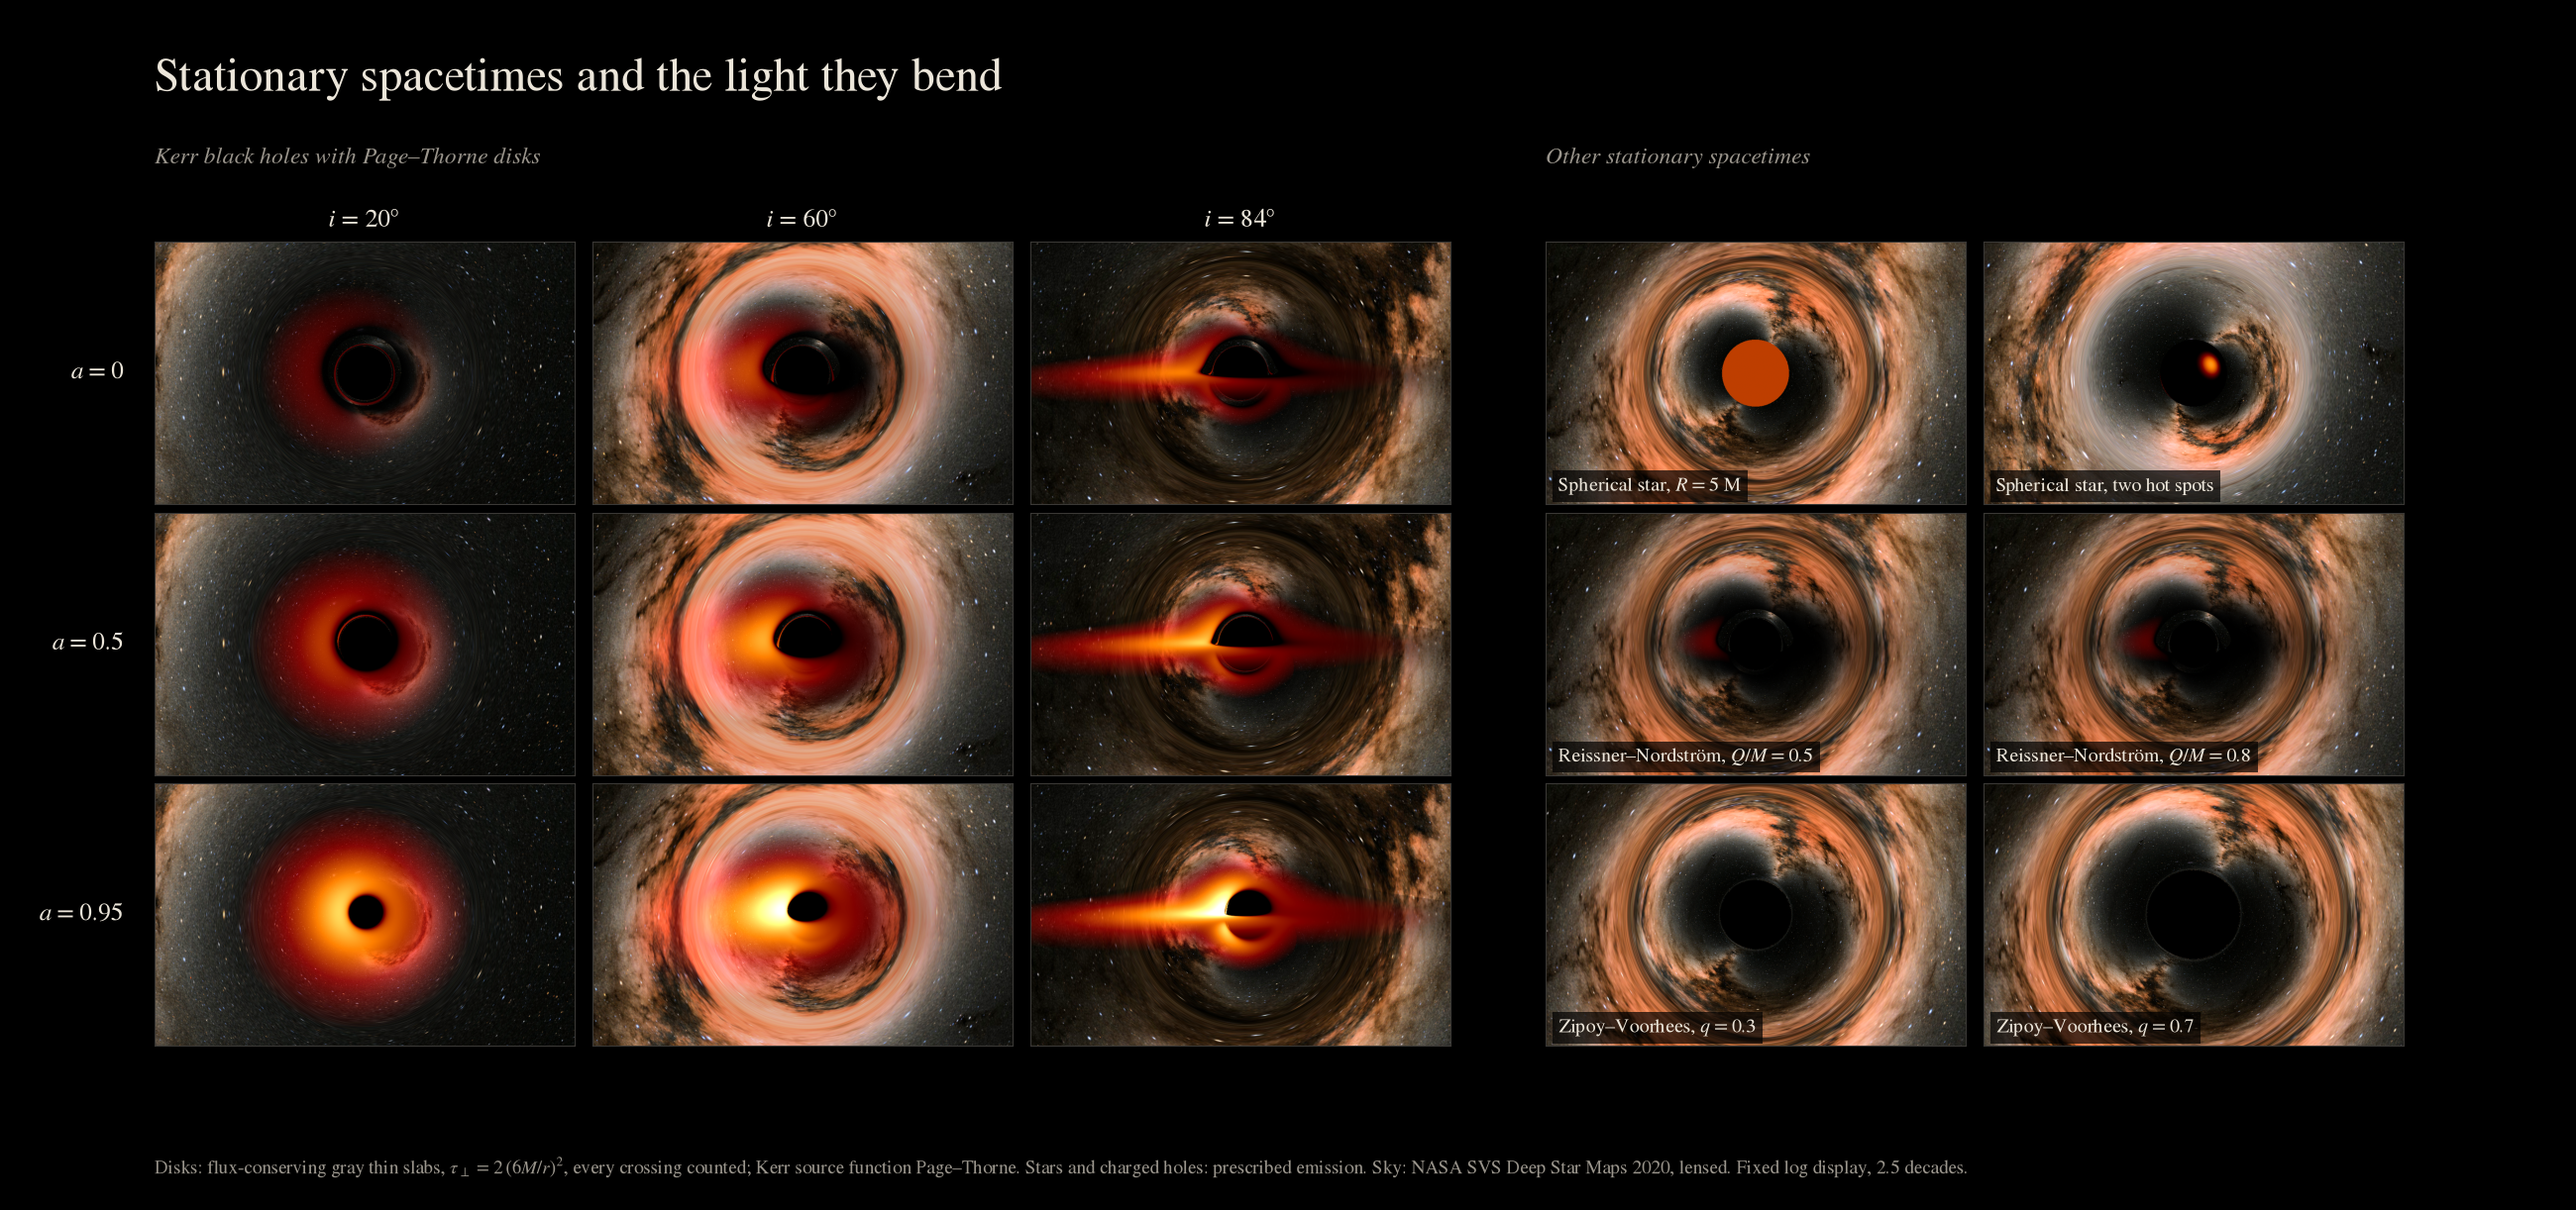
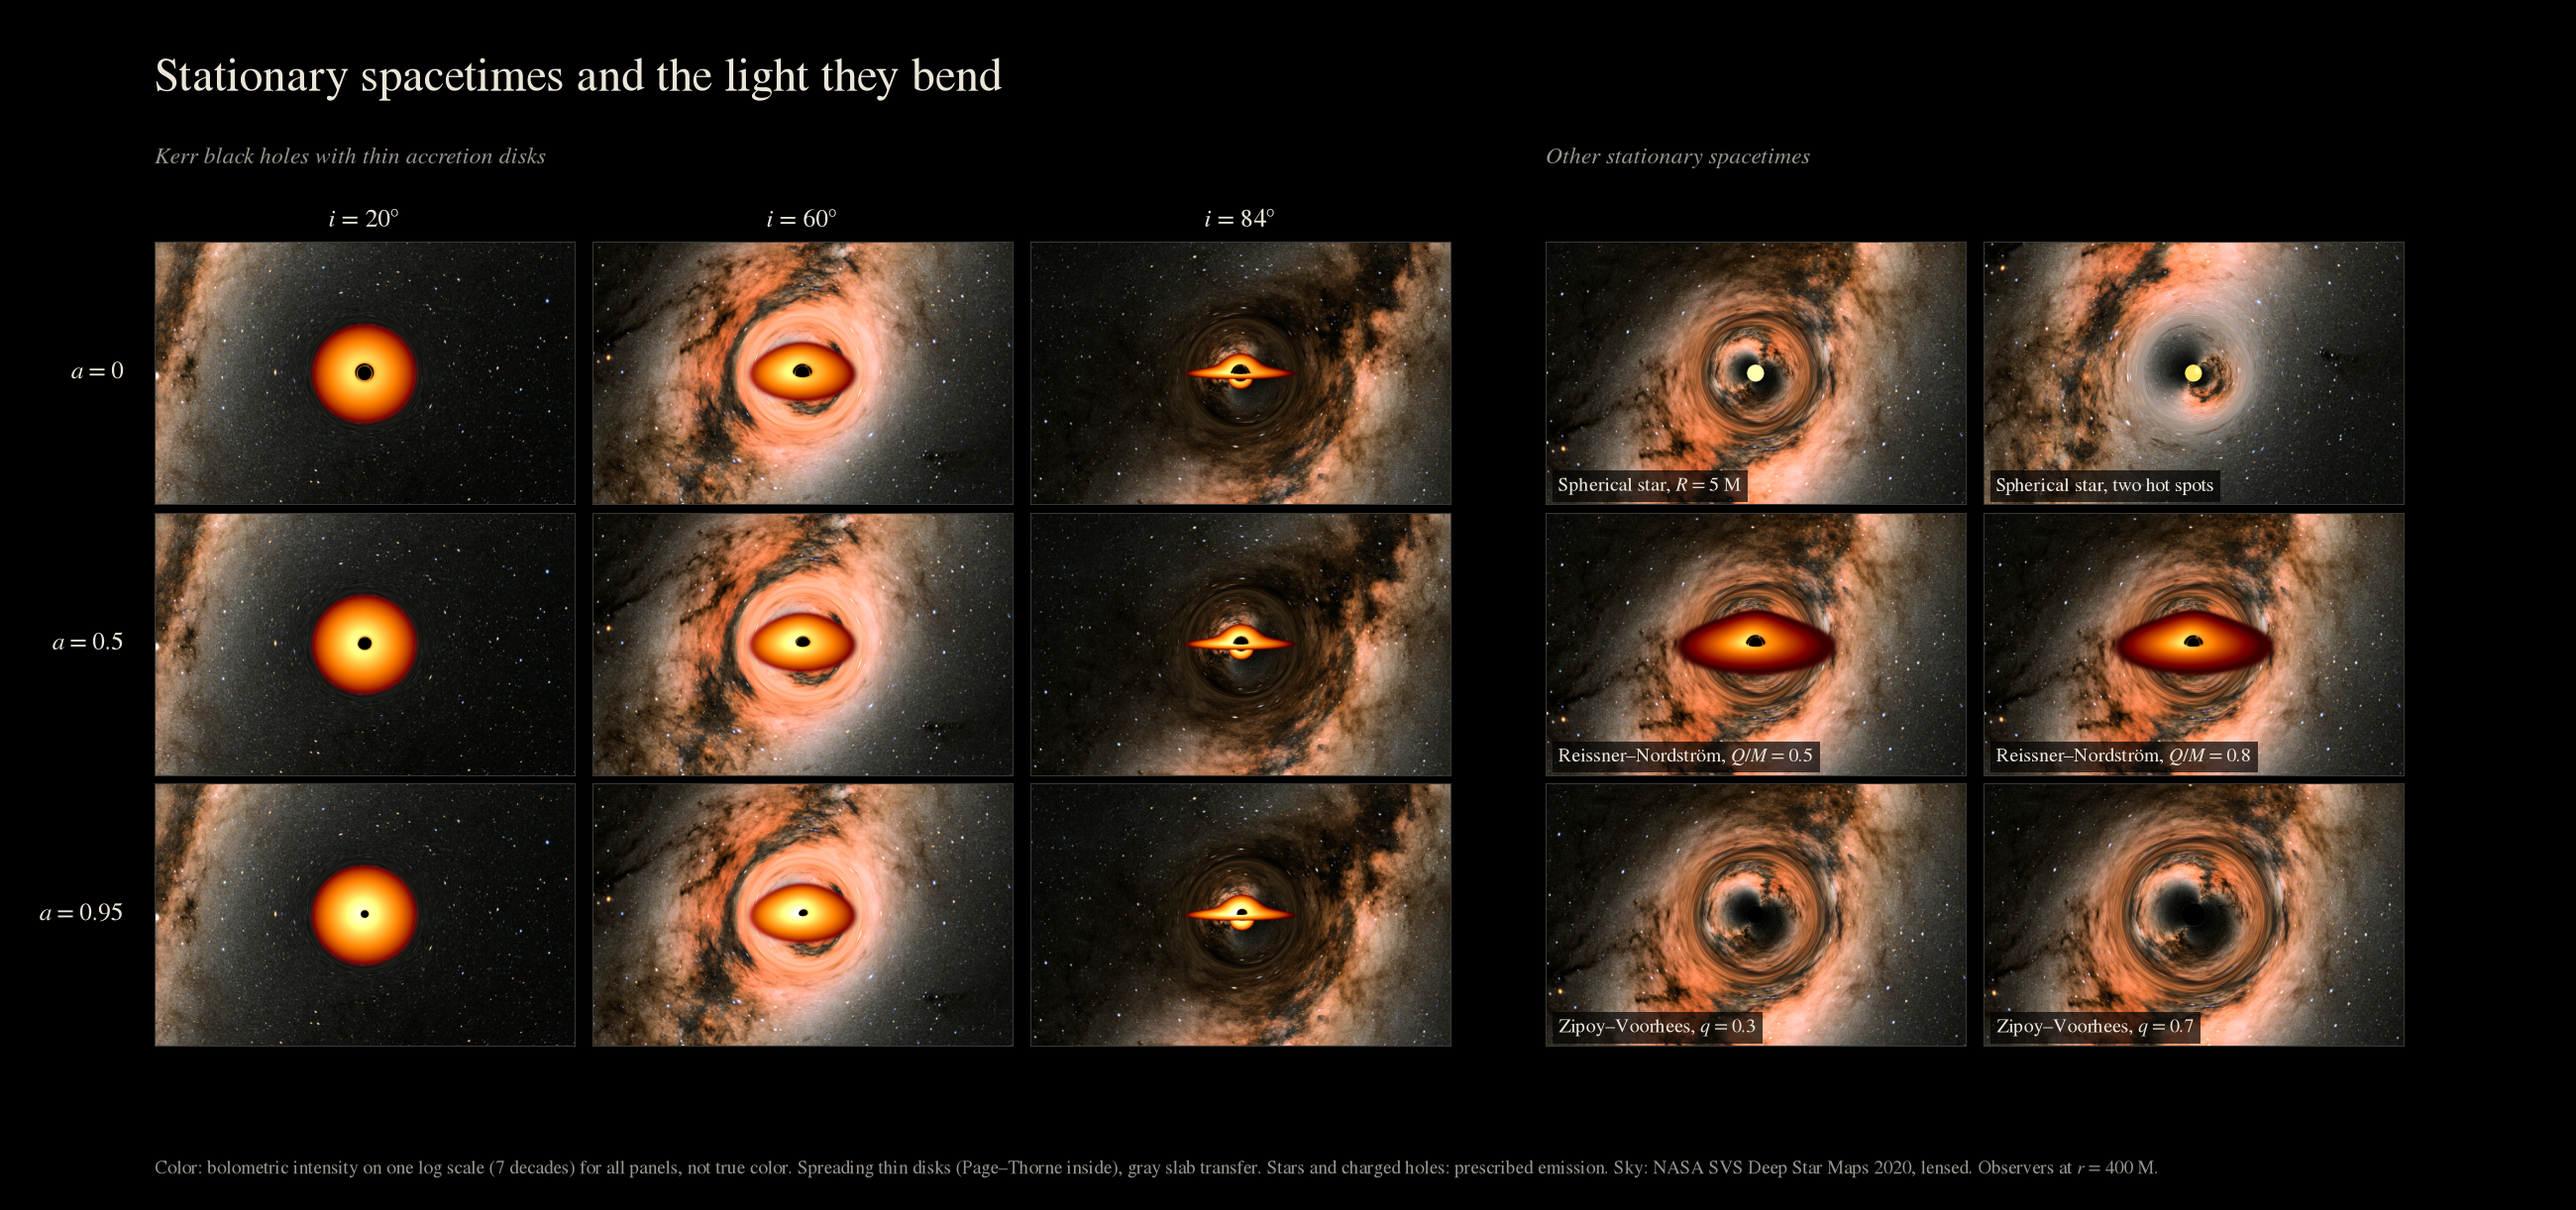
Final renders: halo-free headline, comparison, gallery, orbit movie
- docs/images/kerr_disk.png, disk_color.png, model_gallery.png:
  finite spreading disks, 7-decade log intensity scale, opaque floor.
- docs/animations/kerr_orbit.mp4 (640x400, 2x2 supersampled, 160
  frames) and kerr_orbit.gif (400 px, same 160 frames, 1.5x slower,
  8.4 MB so GitHub shows it inline).
- kerr_movie.py GIF defaults match the committed file.

Claude-Session: https://claude.ai/code/session_01VkfPXxaowxusiJkSsVhnLt

diff --git a/examples/kerr_movie.py b/examples/kerr_movie.py
@@ -101,7 +101,7 @@ def main():
     ap.add_argument("-o", "--output", default=out("kerr_orbit.mp4"))
     ap.add_argument("--gif", default=None,
                     help="also write a GIF preview here (needs ffmpeg)")
-    ap.add_argument("--gif-width", type=int, default=560)
+    ap.add_argument("--gif-width", type=int, default=400)
     ap.add_argument("--gif-slowdown", type=float, default=1.5,
                     help="play the GIF this many times slower than the MP4")
     args = ap.parse_args()
@@ -148,7 +148,9 @@ def main():
 
 def write_gif(mp4, gif, width, fps, slowdown):
     """Two-pass palette GIF from the MP4, played ``slowdown`` times slower.
-    Every frame is kept; only the display time per frame grows."""
+    Every frame is kept; only the display time per frame grows. The width
+    and a 96-color ordered-dither palette keep the file under 10 MB so
+    GitHub displays it inline."""
     ffmpeg = shutil.which("ffmpeg")
     if ffmpeg is None:
         raise RuntimeError("GIF export requires ffmpeg on PATH")
@@ -157,8 +159,9 @@ def write_gif(mp4, gif, width, fps, slowdown):
     subprocess.run(
         [ffmpeg, "-loglevel", "error", "-y", "-i", str(mp4), "-filter_complex",
          f"[0:v]setpts={slowdown:g}*PTS,{scale},split[a][b];"
-         "[a]palettegen=max_colors=192:stats_mode=full[p];"
-         "[b][p]paletteuse=dither=sierra2_4a", str(gif)],
+         "[a]palettegen=max_colors=96:stats_mode=diff[p];"
+         "[b][p]paletteuse=dither=bayer:bayer_scale=4:diff_mode=rectangle",
+         str(gif)],
         check=True)
 
 
